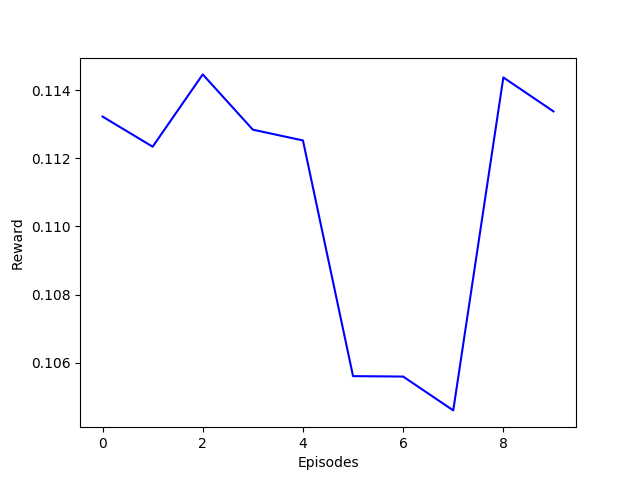
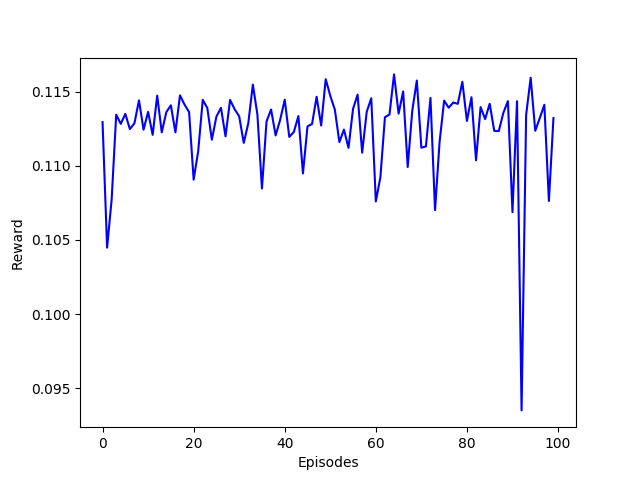
fixed eps error

diff --git a/models/double_dqn/training.py b/models/double_dqn/training.py
@@ -27,13 +27,12 @@ batch_size = 128
 gamma = 0.9
 beta = 0.2
 eta = 0.002
-epsilon_start = 0.8
-epsilon_end = 0.001
-e_decay = 0.99
+epsilon = 0.99
+epsilon_end = 0.0001
 weight_decay = 0.01
 target_policy_update = 32
 memory_size = 10_000
-episodes = 10_000
+episodes = 150_000
 
 #global variables
 SARS = namedtuple('Experience', ('state','action','reward','next_state','done'))
@@ -181,7 +180,7 @@ for episode in tqdm(range(1,episodes+1),unit ='episode'):
     t_reward = 0
     while not done:
         #with probablity epsilon select a random action
-        if random.random() < epsilon_start:
+        if random.random() < epsilon:
             action = env.action_space.sample()
         else:
             with torch.no_grad():
@@ -190,6 +189,7 @@ for episode in tqdm(range(1,episodes+1),unit ='episode'):
         observation_next, reward, done, info = env.step(action)
         if reward == 1:
             tasks_solved += 1
+            print("solved a task")
         #modes = "human","rgb_array"
         image = env.render(mode="rgb_array")
         observation_next = torch.from_numpy(observation_next).to(device)
@@ -214,8 +214,8 @@ for episode in tqdm(range(1,episodes+1),unit ='episode'):
             l = update_target(i_loss,f_loss)
             t_loss.append(l)
     t_rewards.append(t_reward)
-
-
+    if epsilon > epsilon_end:
+        epsilon = np.exp(-(1/episodes)*episode*10)
 
 #Loss plot
 t = plt.figure(1)
@@ -232,7 +232,7 @@ plt.xlabel("Episodes")
 plt.ylabel("Reward")
 r.savefig("Reward.png")
 
-Print(f"Solved {tasks_solved} in {episodes} episodes")
+print(f"Solved {tasks_solved} in {episodes} episodes")
 
 if __name__ == "__main__":
     pass
